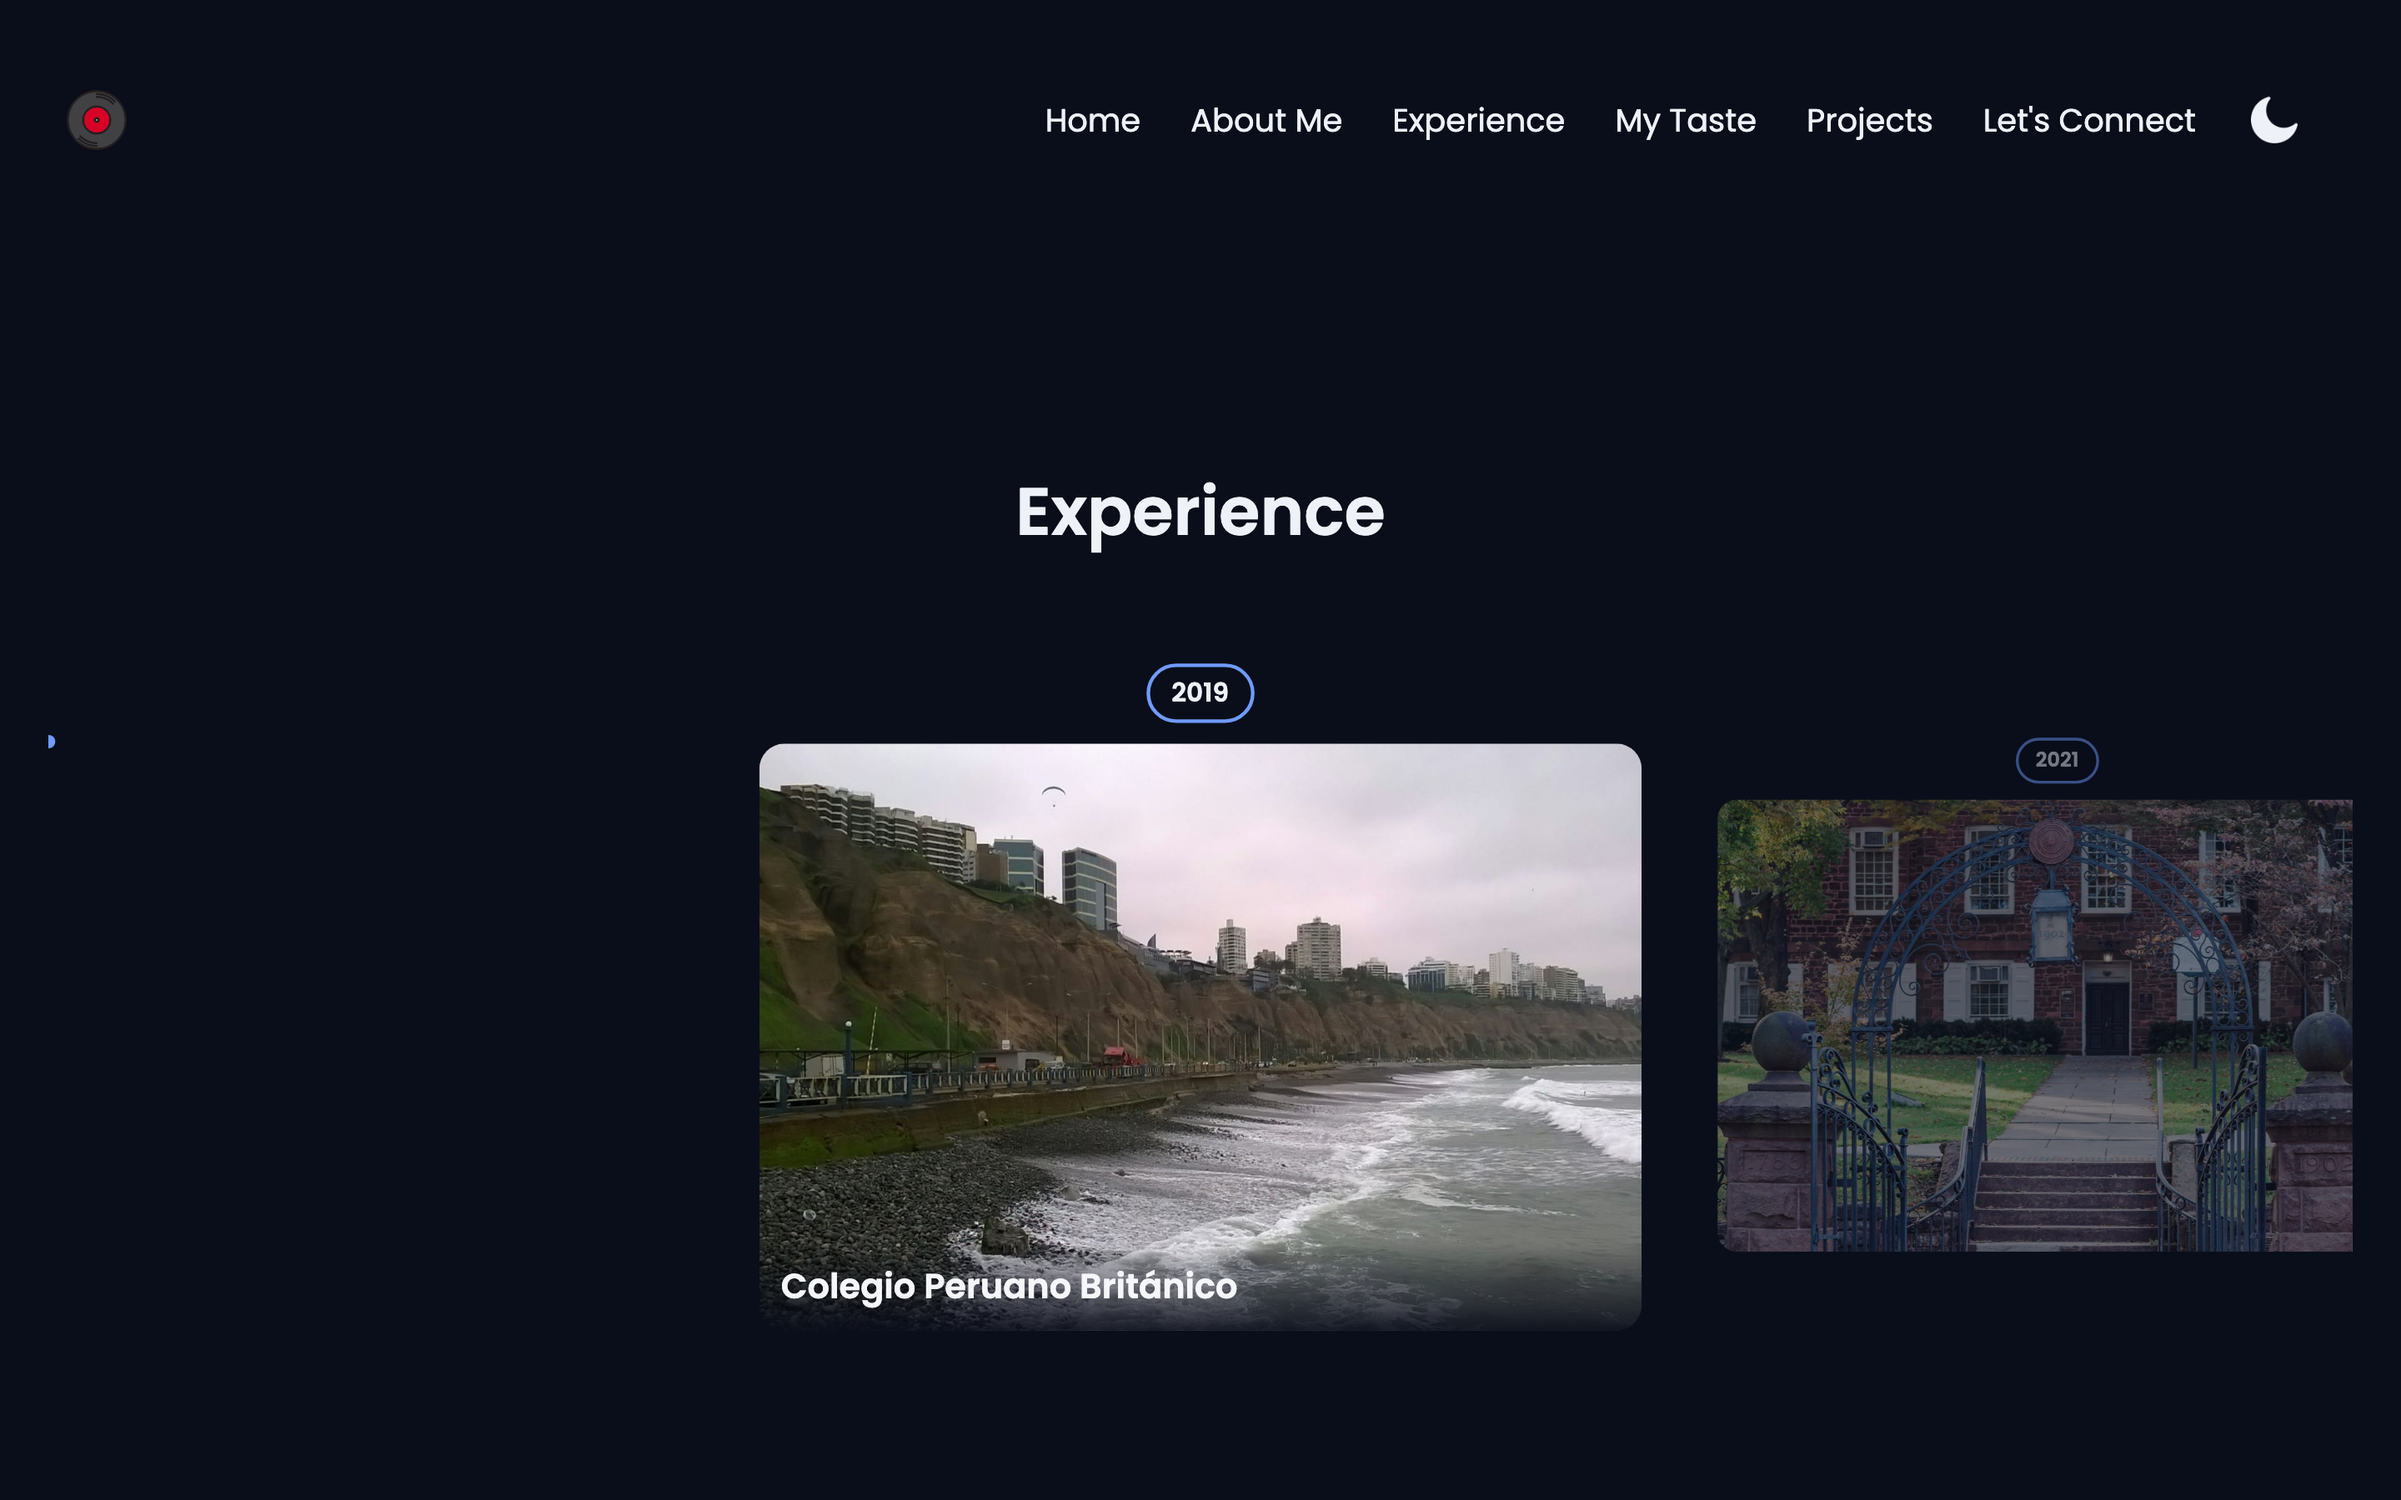
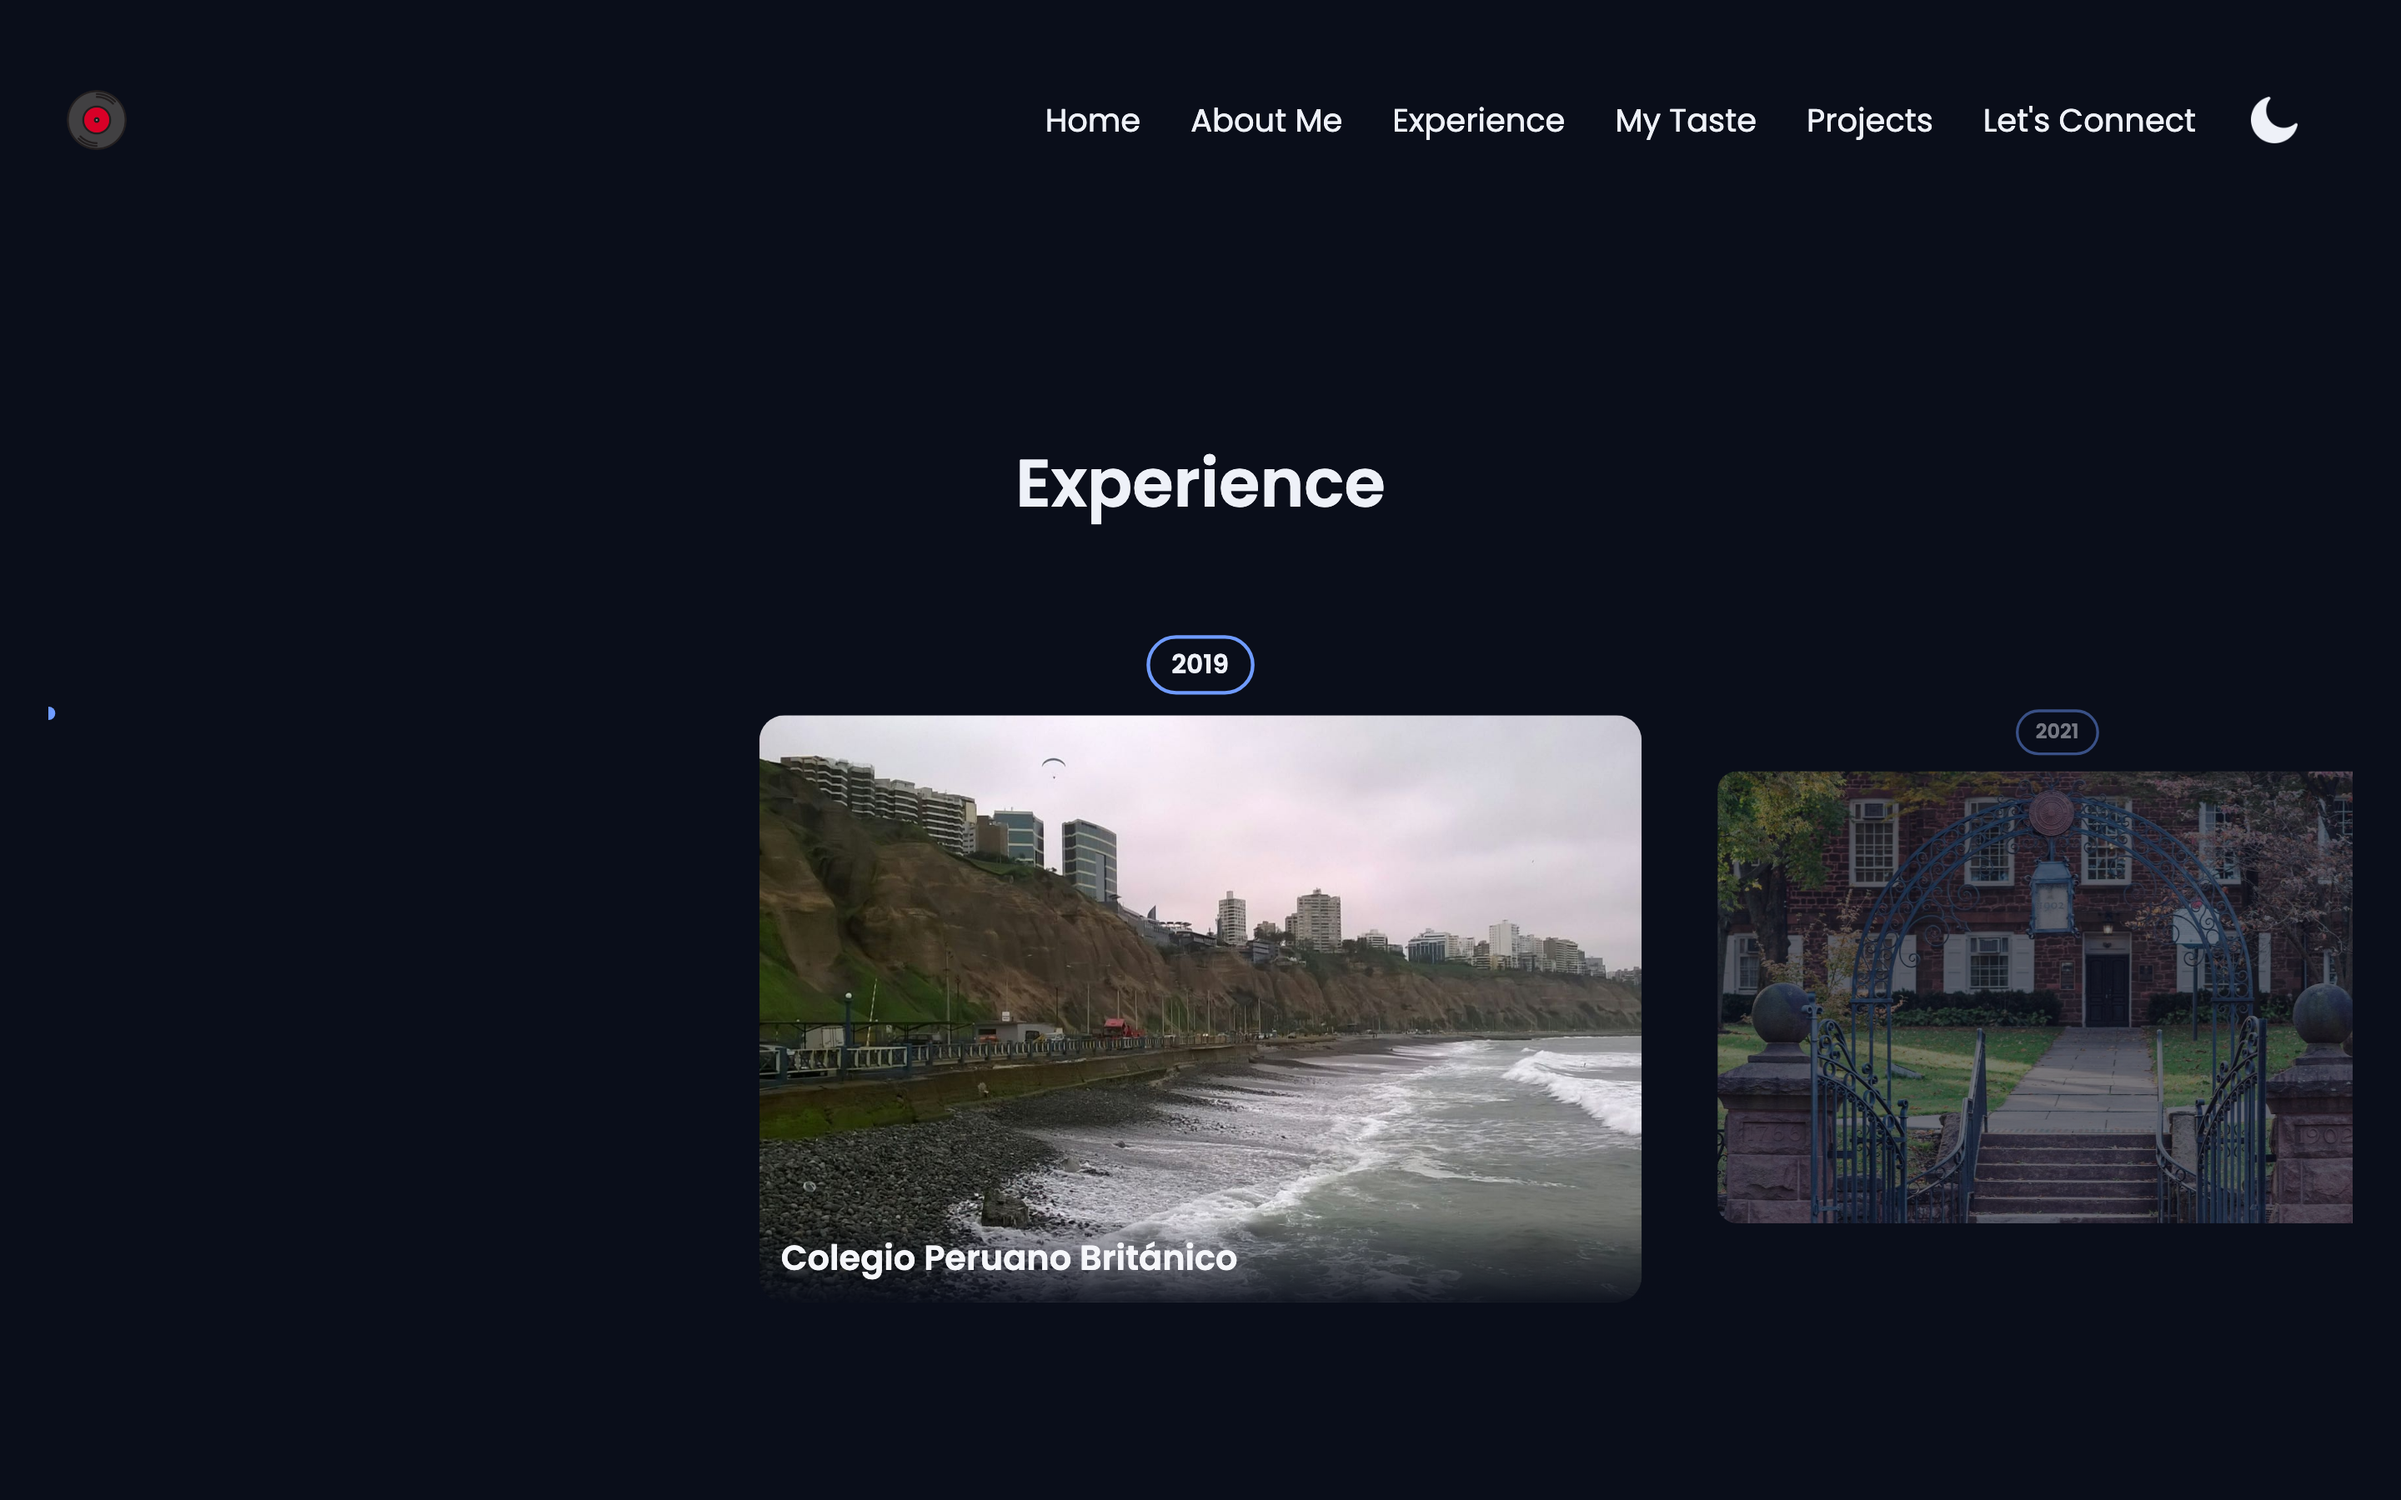
fix: bias the Experience title+filmstrip pair above true center
Follow-up to 217dfb0 ("move the slideshow a bit higher"). Two flex-grow
spacer pseudo-elements on `.experience-section` around the centered pair,
`::after` heavier than `::before` (1:2 desktop, flattened to 1:1.5 below
768px so a phone's larger leftover height doesn't over-lift it).

Card center vs. section center: 1920 +56->+26px, 1440 +56->+41px,
390 +47->+27px. `flex-grow`, not padding, so on a short (<=~720px) window
the leftover collapses to ~0 and it falls back to plain
`justify-content: center` — 1280x720 unchanged, no new B29 overlap risk.
`.experience-section--static` sets `content: none` on both spacers so the
reduced-motion list stays top-aligned (re-verified).

Screenshots refreshed; STATUS/ROADMAP notes updated.

diff --git a/client/src/styles/main.scss b/client/src/styles/main.scss
@@ -2109,19 +2109,25 @@ html {
 // rendered box overflows the fold by exactly its vertical padding — measured
 // once at 820px against a 756px min-height.
 //
-// Padding is a touch bottom-heavier than top (space-5 / space-6 desktop):
-// with justify-content: center a bigger bottom pad lifts the centered pair,
-// and true centering under a fixed navbar reads low because the navbar
-// anchors the eye upward (the effect about.jsx's TOP_BIAS compensates for).
-// Kept modest on purpose — a large bottom pad barely moves a centered pair
-// but does push the section's own bottom past a short (~720px) fold.
+// The pair is biased UPWARD, not dead-centred — two flex-grow spacer
+// pseudo-elements below, `::after` heavier than `::before`, so more of the
+// section's leftover height collects below the filmstrip than above the
+// title. Live feedback ("move the slideshow a bit higher"), and the same
+// thing about.jsx's TOP_BIAS records: mathematical centring under a fixed
+// navbar reads low, because the navbar anchors the eye to the top, and this
+// pair carries its title on top so the filmstrip already sits in the pair's
+// lower half. flex-grow, NOT extra bottom padding: on a short window the
+// leftover height is ~0, both spacers collapse to 0px regardless of ratio,
+// and the pair falls back to plain `justify-content: center` in whatever
+// space exists — so this can't push the section past a tight (~720px) fold
+// or reintroduce B29's title/card overlap the way a fixed offset could.
 //
 // NOT transform: translateY(-50%) centering — experience.jsx runs
 // gsap.set/to with `scale` on .experience-viewport (mount reveal) and GSAP
 // writes its own inline `transform`, which would clobber a stylesheet one.
 // Flex centering never touches `transform`. B29 (FINDINGS.md — the title
-// overlapping the cards) stays fixed: the pair is one centered unit, so the
-// title can never land over the viewport.
+// overlapping the cards) stays fixed: the pair is one unit, so the title
+// can never land over the viewport.
 .experience-section {
   position: relative;
   display: flex;
@@ -2134,6 +2140,27 @@ html {
 
   @media (max-width: 768px) {
     padding: var(--space-4) 0 var(--space-5);
+  }
+
+  // Desktop 1 : 2 — the space below the pair grows twice as fast as the space
+  // above it, so the pair lands ~1/6 of the leftover height above true centre
+  // (a clear, deliberate lift, per "move the slideshow a bit higher").
+  &::before,
+  &::after {
+    content: "";
+    flex-shrink: 1;
+    width: 100%;
+  }
+
+  &::before { flex-grow: 1; }
+  &::after { flex-grow: 2; }
+
+  // A tall narrow phone has ~1.6x the leftover height a desktop does, so the
+  // same ratio shifts the pair much further in absolute px and leaves an
+  // obvious empty band under the filmstrip. Flatten the ratio here so the
+  // lift stays "a bit," not "halfway up."
+  @media (max-width: 768px) {
+    &::after { flex-grow: 1.5; }
   }
 }
 
@@ -2166,10 +2193,15 @@ html {
 }
 
 // Reduced-motion fallback (ExperienceStatic, experience.jsx) is a tall
-// scrolling list, not a one-screen composition — centering it as a unit
-// would push its top under the navbar. It keeps the default top alignment.
+// scrolling list, not a one-screen composition — centering or biasing it
+// would push its top under the navbar. Top-aligned, and no spacer
+// pseudo-elements (a `::before` with flex-grow would still claim space above
+// a short list on a tall window).
 .experience-section--static {
   justify-content: flex-start;
+
+  &::before,
+  &::after { content: none; }
 }
 
 // The pinned box — experience.jsx's ScrollTrigger pins THIS section

diff --git a/design-review/STATUS.md b/design-review/STATUS.md
@@ -7794,6 +7794,17 @@ all 6 items in flow, section grows to 1106px, nothing clipped. User picked this
 from a two-option mock (vs. title pinned to the section top, viewport centred
 alone). Only `main.scss` changed — no JSX, lint baseline untouched.
 
+**Follow-up same day — "move the slideshow a bit higher."** Added two
+`flex-grow` spacer pseudo-elements to `.experience-section` around the pair,
+`::after` heavier than `::before` (1:2 desktop, flattened to 1:1.5 below 768px
+because a phone's larger leftover height would otherwise over-lift it). The pair
+now rides above true centre — card centre vs. section centre: 1920 +56→**+26px**,
+1440 +56→**+41px**, 390 +47→**+27px**. `flex-grow`, not padding: on a short
+(≤~720px) window the leftover is ~0, the spacers collapse, and it falls back to
+plain `justify-content: center` — 1280×720 is unchanged (+56px, 34px overflow),
+no new B29 risk. `.experience-section--static` sets `content: none` on both so
+the reduced-motion list stays top-aligned. Screenshots refreshed.
+
 ---
 
 ## 3. Current measurements *(refreshed 2026-08-25, Stage 7.2)*

diff --git a/design-review/ROADMAP.md b/design-review/ROADMAP.md
@@ -1737,7 +1737,11 @@ Also here: migrate the About timeline's unthrottled scroll handler to `ScrollTri
 > back out with `justify-content: flex-start` (it's a tall scrolling list, not
 > a one-screen composition). Chosen by the user from a two-option mock
 > (the alternative: title pinned near the section top, viewport centred on its
-> own). All fixes' full writeups: `STATUS.md`'s own dated entries
+> own). A same-day follow-up ("move the slideshow a bit higher") then biased
+> the pair above true centre with two `flex-grow` spacer pseudo-elements on the
+> section, `::after` heavier than `::before` (1:2 desktop, 1:1.5 on mobile) —
+> `flex-grow` so they collapse to 0 on a short window and can't reintroduce the
+> overlap. All fixes' full writeups: `STATUS.md`'s own dated entries
 > (`FINDINGS.md` B29 for the first).
 
 > **Stage 3 Task 10 is DONE — 2026-08-18.** `#projects` refined: B11 (a dead
